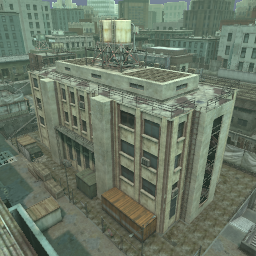
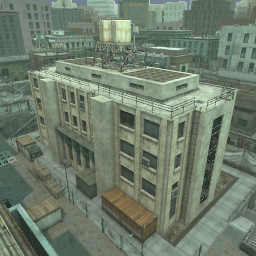
Update Urban Ultimatum for the 1.0.0 release

diff --git a/index.html b/index.html
@@ -76,11 +76,11 @@
       </div>
 
       <article class="project-row">
-        <img class="project-image" src="images/urban-ultimatum.png" width="112" height="112" alt="Overview of Urban Ultimatum's industrial rooftops and streets" loading="lazy">
+        <img class="project-image" src="images/urban-ultimatum.png?v=1.0.0" width="112" height="112" alt="Overview of Urban Ultimatum's industrial rooftops and streets" loading="lazy">
         <div class="project-copy">
           <h3>TnH - MGO2 - UrbanUltimatum</h3>
-          <p class="project-type">H3VR · Take &amp; Hold map</p>
-          <p class="project-description">Urban Ultimatum from Metal Gear Online 2, with five holds, six supplies, and rooftop and underground routes.</p>
+          <p class="project-type">H3VR · Take &amp; Hold map · 1.0.0</p>
+          <p class="project-description">Urban Ultimatum from Metal Gear Online 2, with five holds, six supplies, and rooftop and underground routes. Version 1.0.0 fixes missing and incorrect textures, improves lighting and probes, and corrects visibility issues.</p>
           <nav class="project-links" aria-label="Urban Ultimatum links">
             <a href="https://thunderstore.io/c/h3vr/p/quaternion/TnH_MGO2_UrbanUltimatum/" target="_blank" rel="noreferrer">Thunderstore ↗</a>
           </nav>
